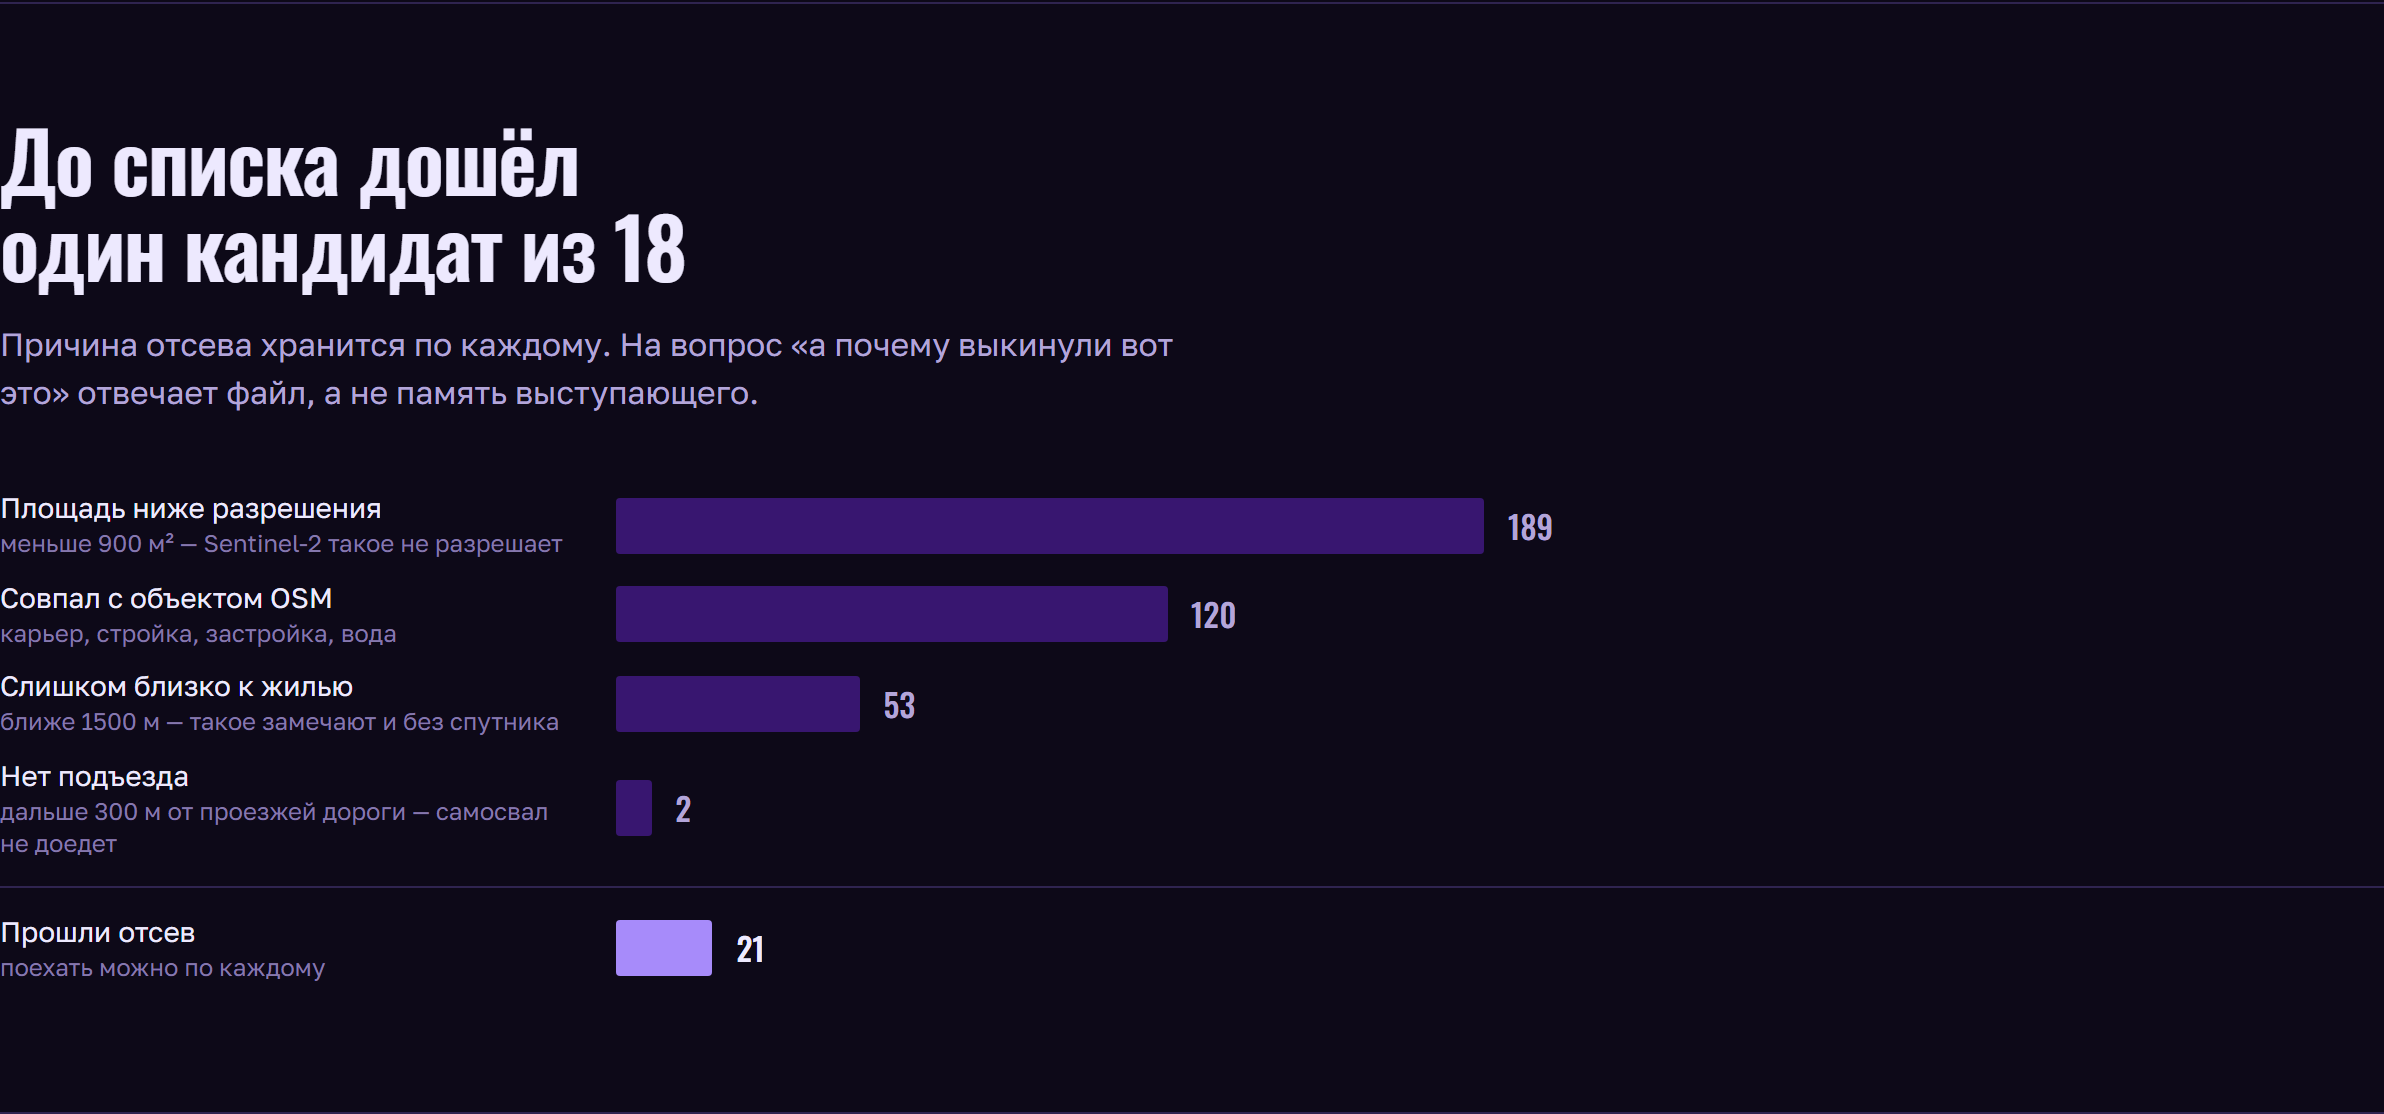
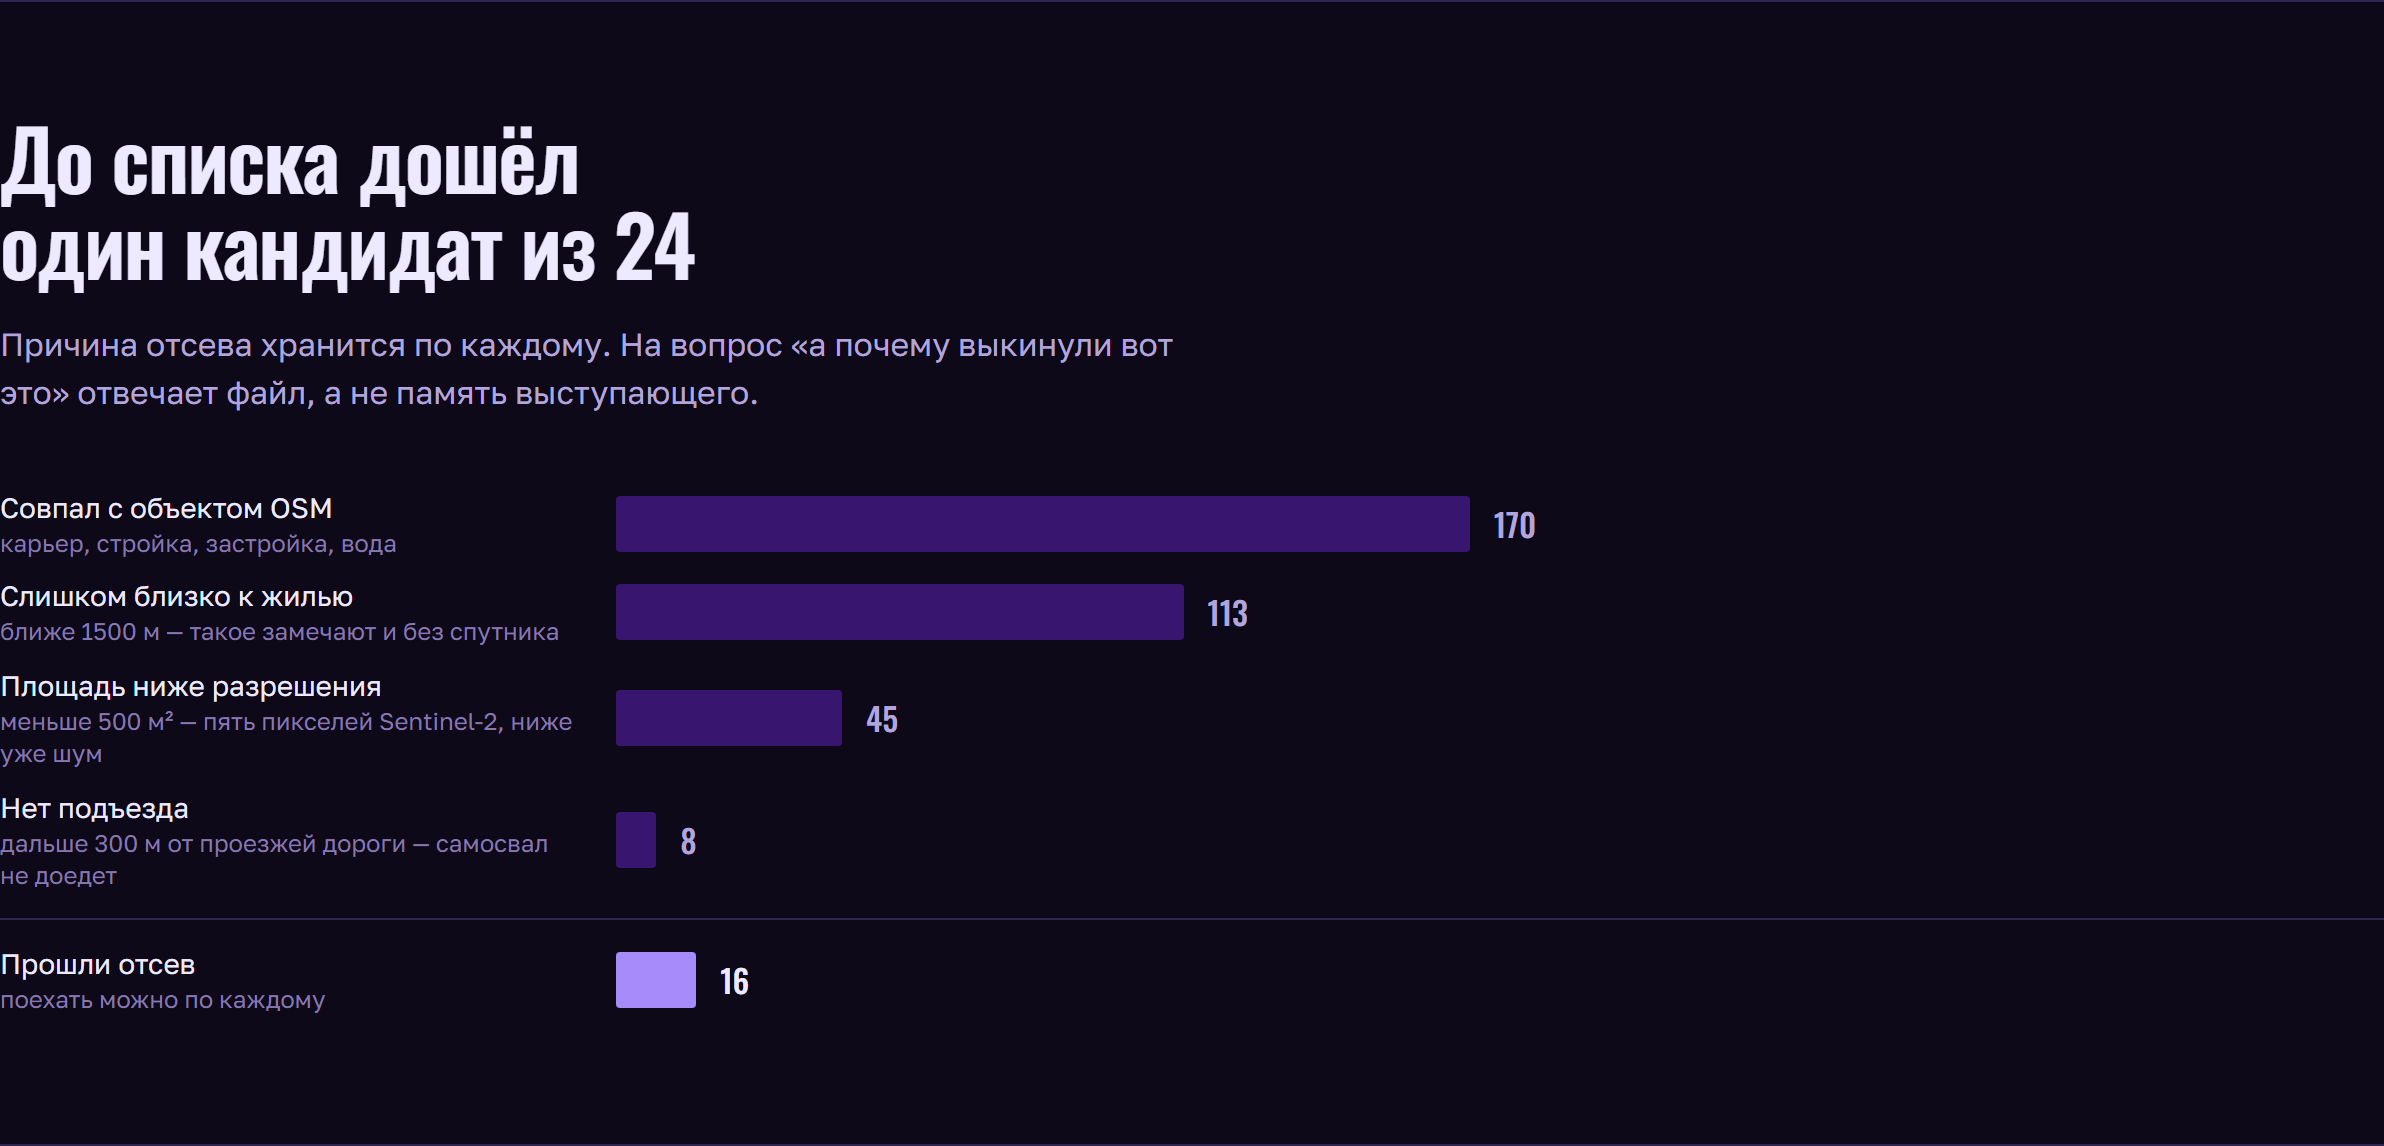
картинки для деки снимали не те разделы
Раздел отбраковок с лендинга убран, добавлен раздел про масштаб — номера
разделов сдвинулись, и скрипт продолжал снимать по старым. Снимок
«rejected» приходил весом 86 КБ: пустой блок, и заметить это можно было
только по размеру файла.

Номера сверены с живой страницей. Набор расширен с семи до десяти: к
графику вегетации, воронке, карте, прогнозу, таймлапсу и странице для
жителей добавлены пять признаков, деньги по годам, масштаб и раздел
«чего система не может».

Последний в деке нужен: слайд про границы применимости, названные
самими, работает сильнее слайда про достижения.

diff --git a/scripts/deck_assets.py b/scripts/deck_assets.py
@@ -13,10 +13,14 @@
 ── Что снимается ───────────────────────────────────────────────────────
 
     pixel        график вегетации одного пикселя за восемь лет — ядро метода
+    signals      пять независимых признаков и что каждый отсекает
     funnel       воронка отсева: сколько кандидатов и почему выбыли
-    rejected     три отвергнутых объекта на снимке высокого разрешения
-    map          рабочая карта со списком и картой
+    money        когда объекты появились и сколько стоит каждый
+    scale        измеренная скорость: сто два километра в час
+    limits       чего система не может — названное самими
+    map          рабочая карта со списком
     forecast     прогноз: точки объезда вместо раскрашенной области
+    timelapse    восемь лет за двадцать секунд
     citizen      сколько лет объект лежит незамеченным
 
     python scripts/deck_assets.py
@@ -39,10 +43,17 @@ PORT = 8095
 #: Блок и селектор, по которому он ищется. Селекторы намеренно простые:
 #: сложный «третий section внутри main» ломается от любой перестановки, а
 #: пропавшая картинка в наборе для деки заметна не сразу.
+#: Порядковые номера разделов сверены с живой страницей 23 августа: раздел
+#: отбраковок с лендинга убран, добавлен раздел про масштаб, и прежние
+#: номера снимали не то. Снимок «rejected» приходил весом 86 КБ — пустой
+#: блок, и это было видно только по размеру файла.
 SHOTS: tuple[tuple[str, str, str], ...] = (
-    ("pixel",    "index.html",    "section:nth-of-type(1)"),
-    ("funnel",   "index.html",    "section:nth-of-type(4)"),
-    ("rejected", "index.html",    "section:nth-of-type(5)"),
+    ("pixel",    "index.html",    "main > section:nth-of-type(1)"),   # график вегетации
+    ("signals",  "index.html",    "main > section:nth-of-type(3)"),   # пять признаков
+    ("funnel",   "index.html",    "main > section:nth-of-type(4)"),   # воронка отсева
+    ("money",    "index.html",    "main > section:nth-of-type(5)"),   # когда и почём
+    ("scale",    "index.html",    "main > section:nth-of-type(7)"),   # масштаб
+    ("limits",   "index.html",    "main > section:nth-of-type(8)"),   # границы
     ("citizen",  "citizen.html",  "section:nth-of-type(1)"),
 )
 
